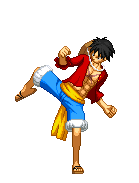
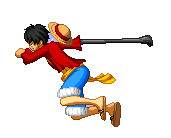
Animations spé de luffy

diff --git a/data/modules/spe.py b/data/modules/spe.py
@@ -24,6 +24,8 @@ class Special(pg.sprite.Sprite):
         if self.game.name == 'luffy':
             if self.game.player_0.vals["percent_ult"] >= 130:
                 self.game.name = 'gear4'
+                self.game.player_0.vals['nbr_sprite'] = 0
+                self.game.elms['side'] = 'ult'
                 self.game.player_0.vals['strike'] = 30
         elif self.game.player_0.vals["percent_ult"] <= 0:
             if self.game.name == 'gear4':
